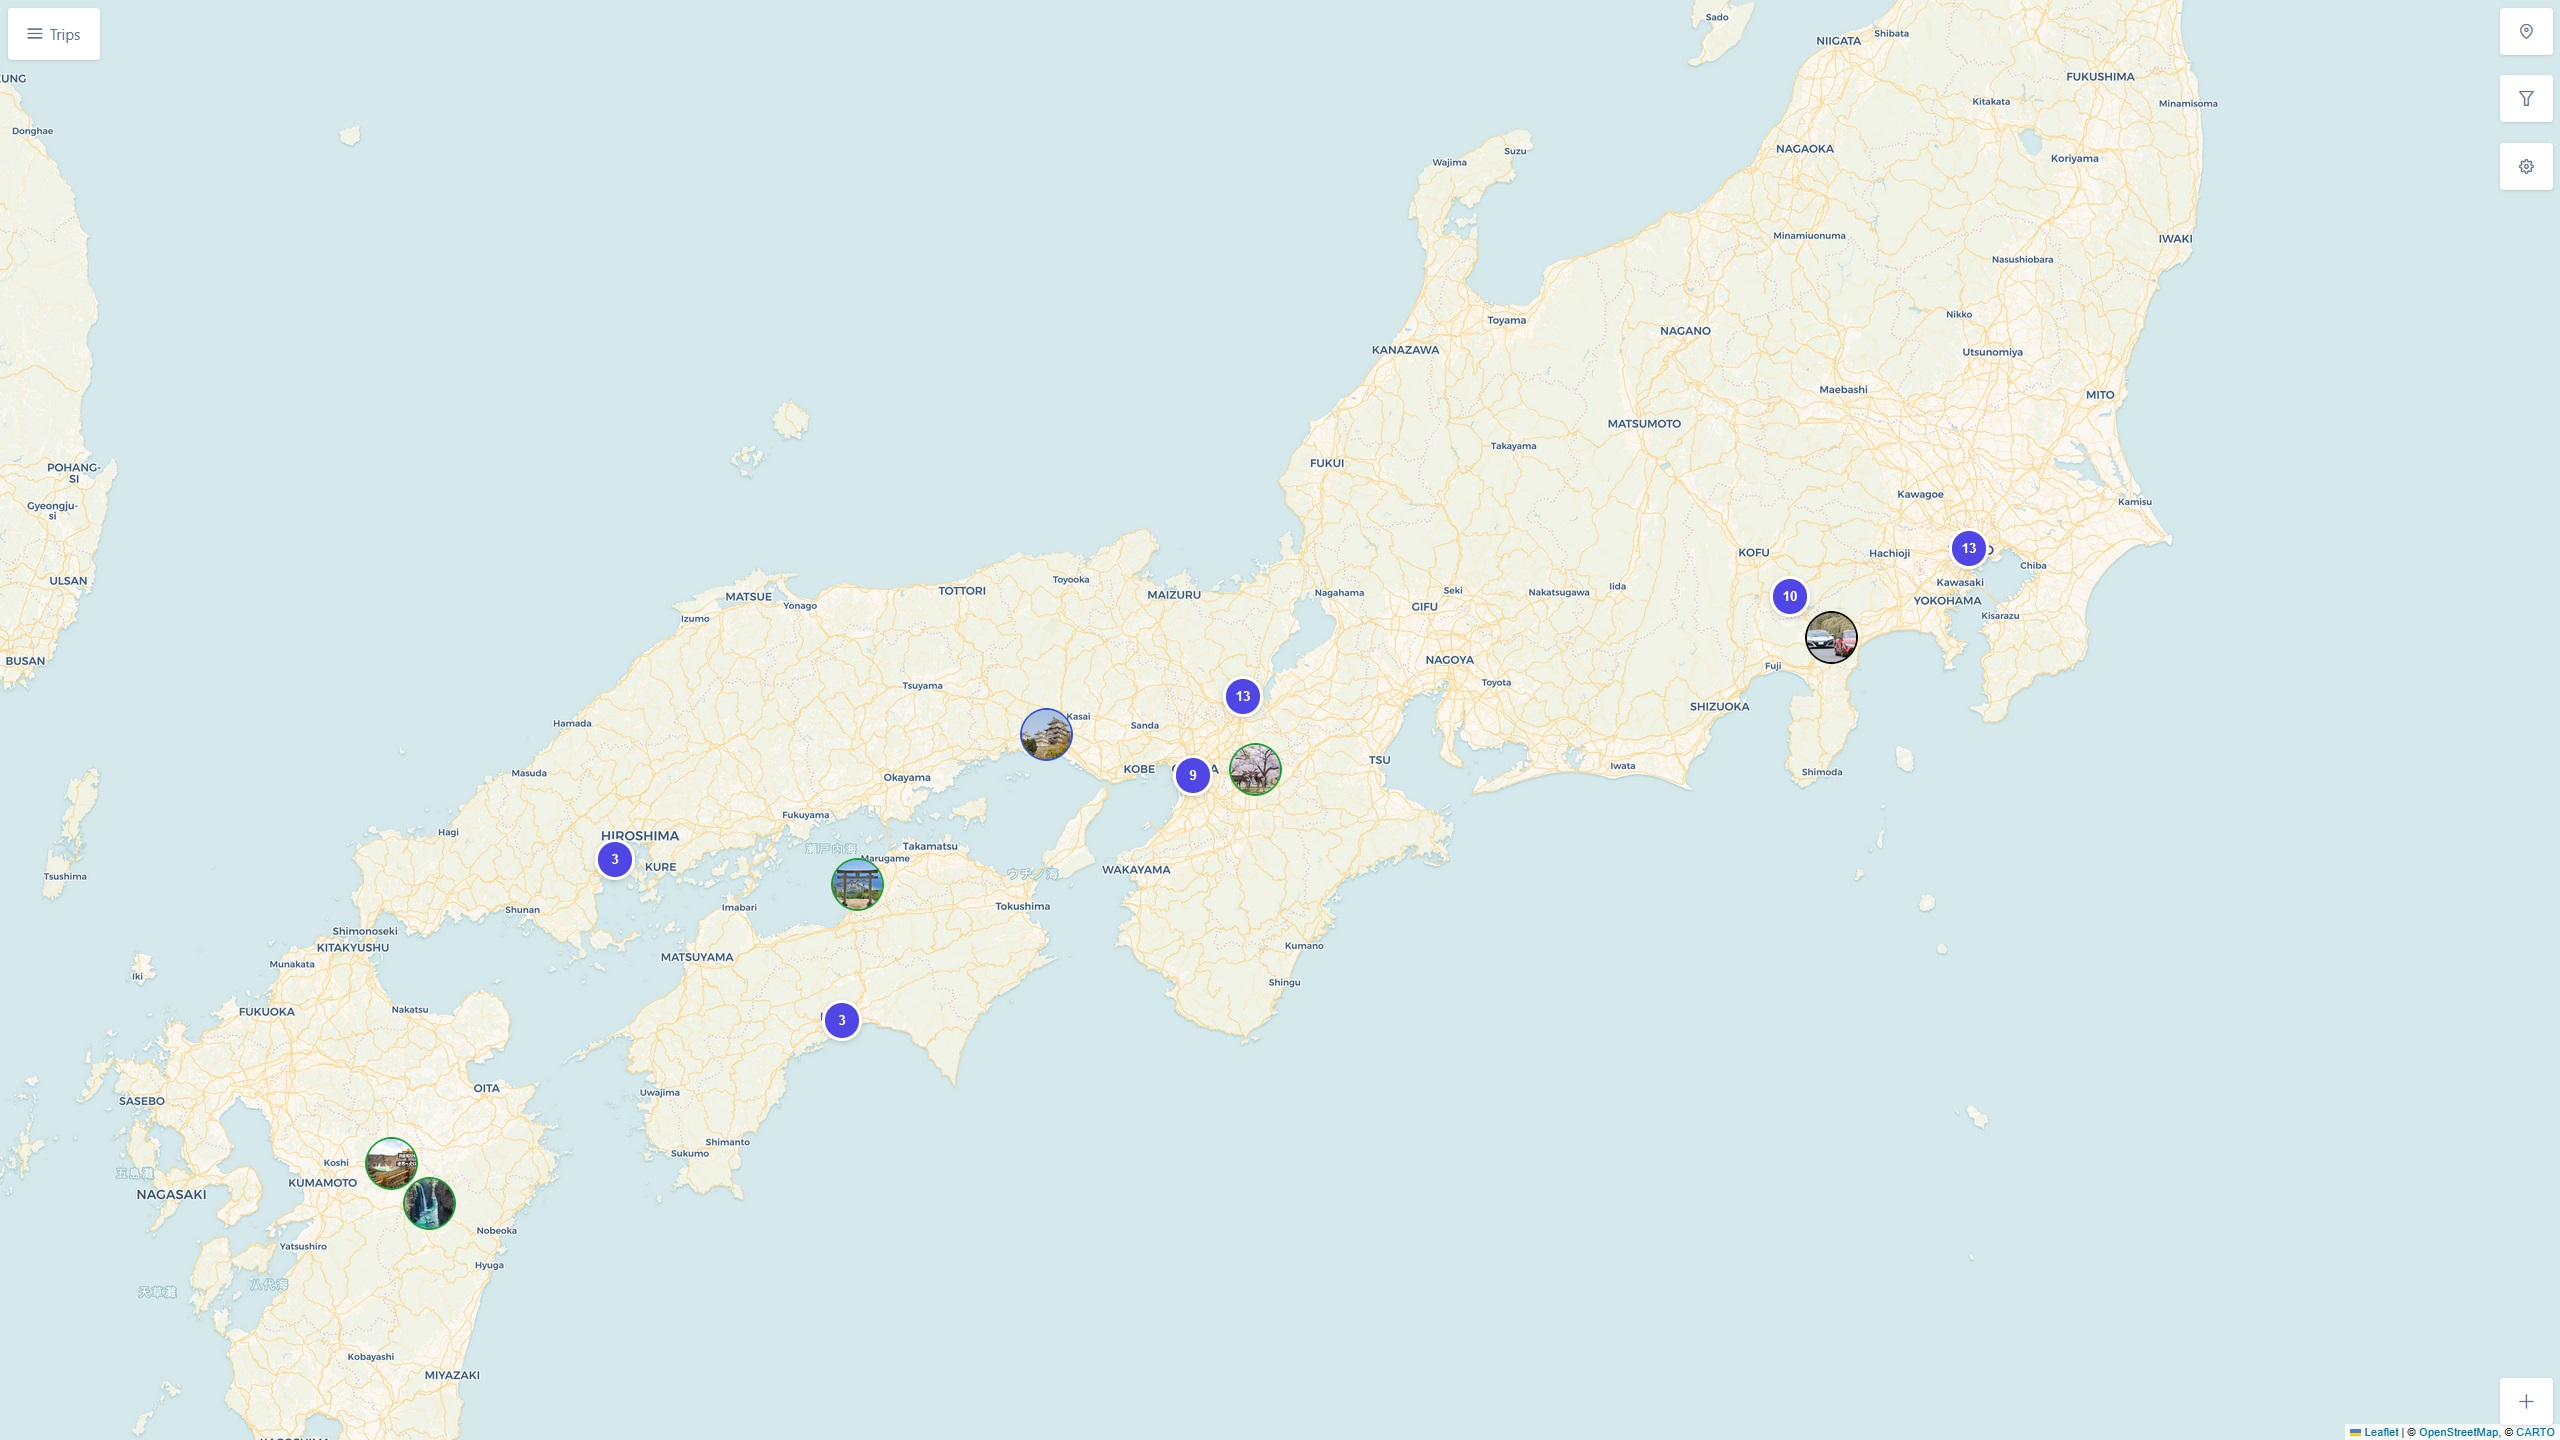
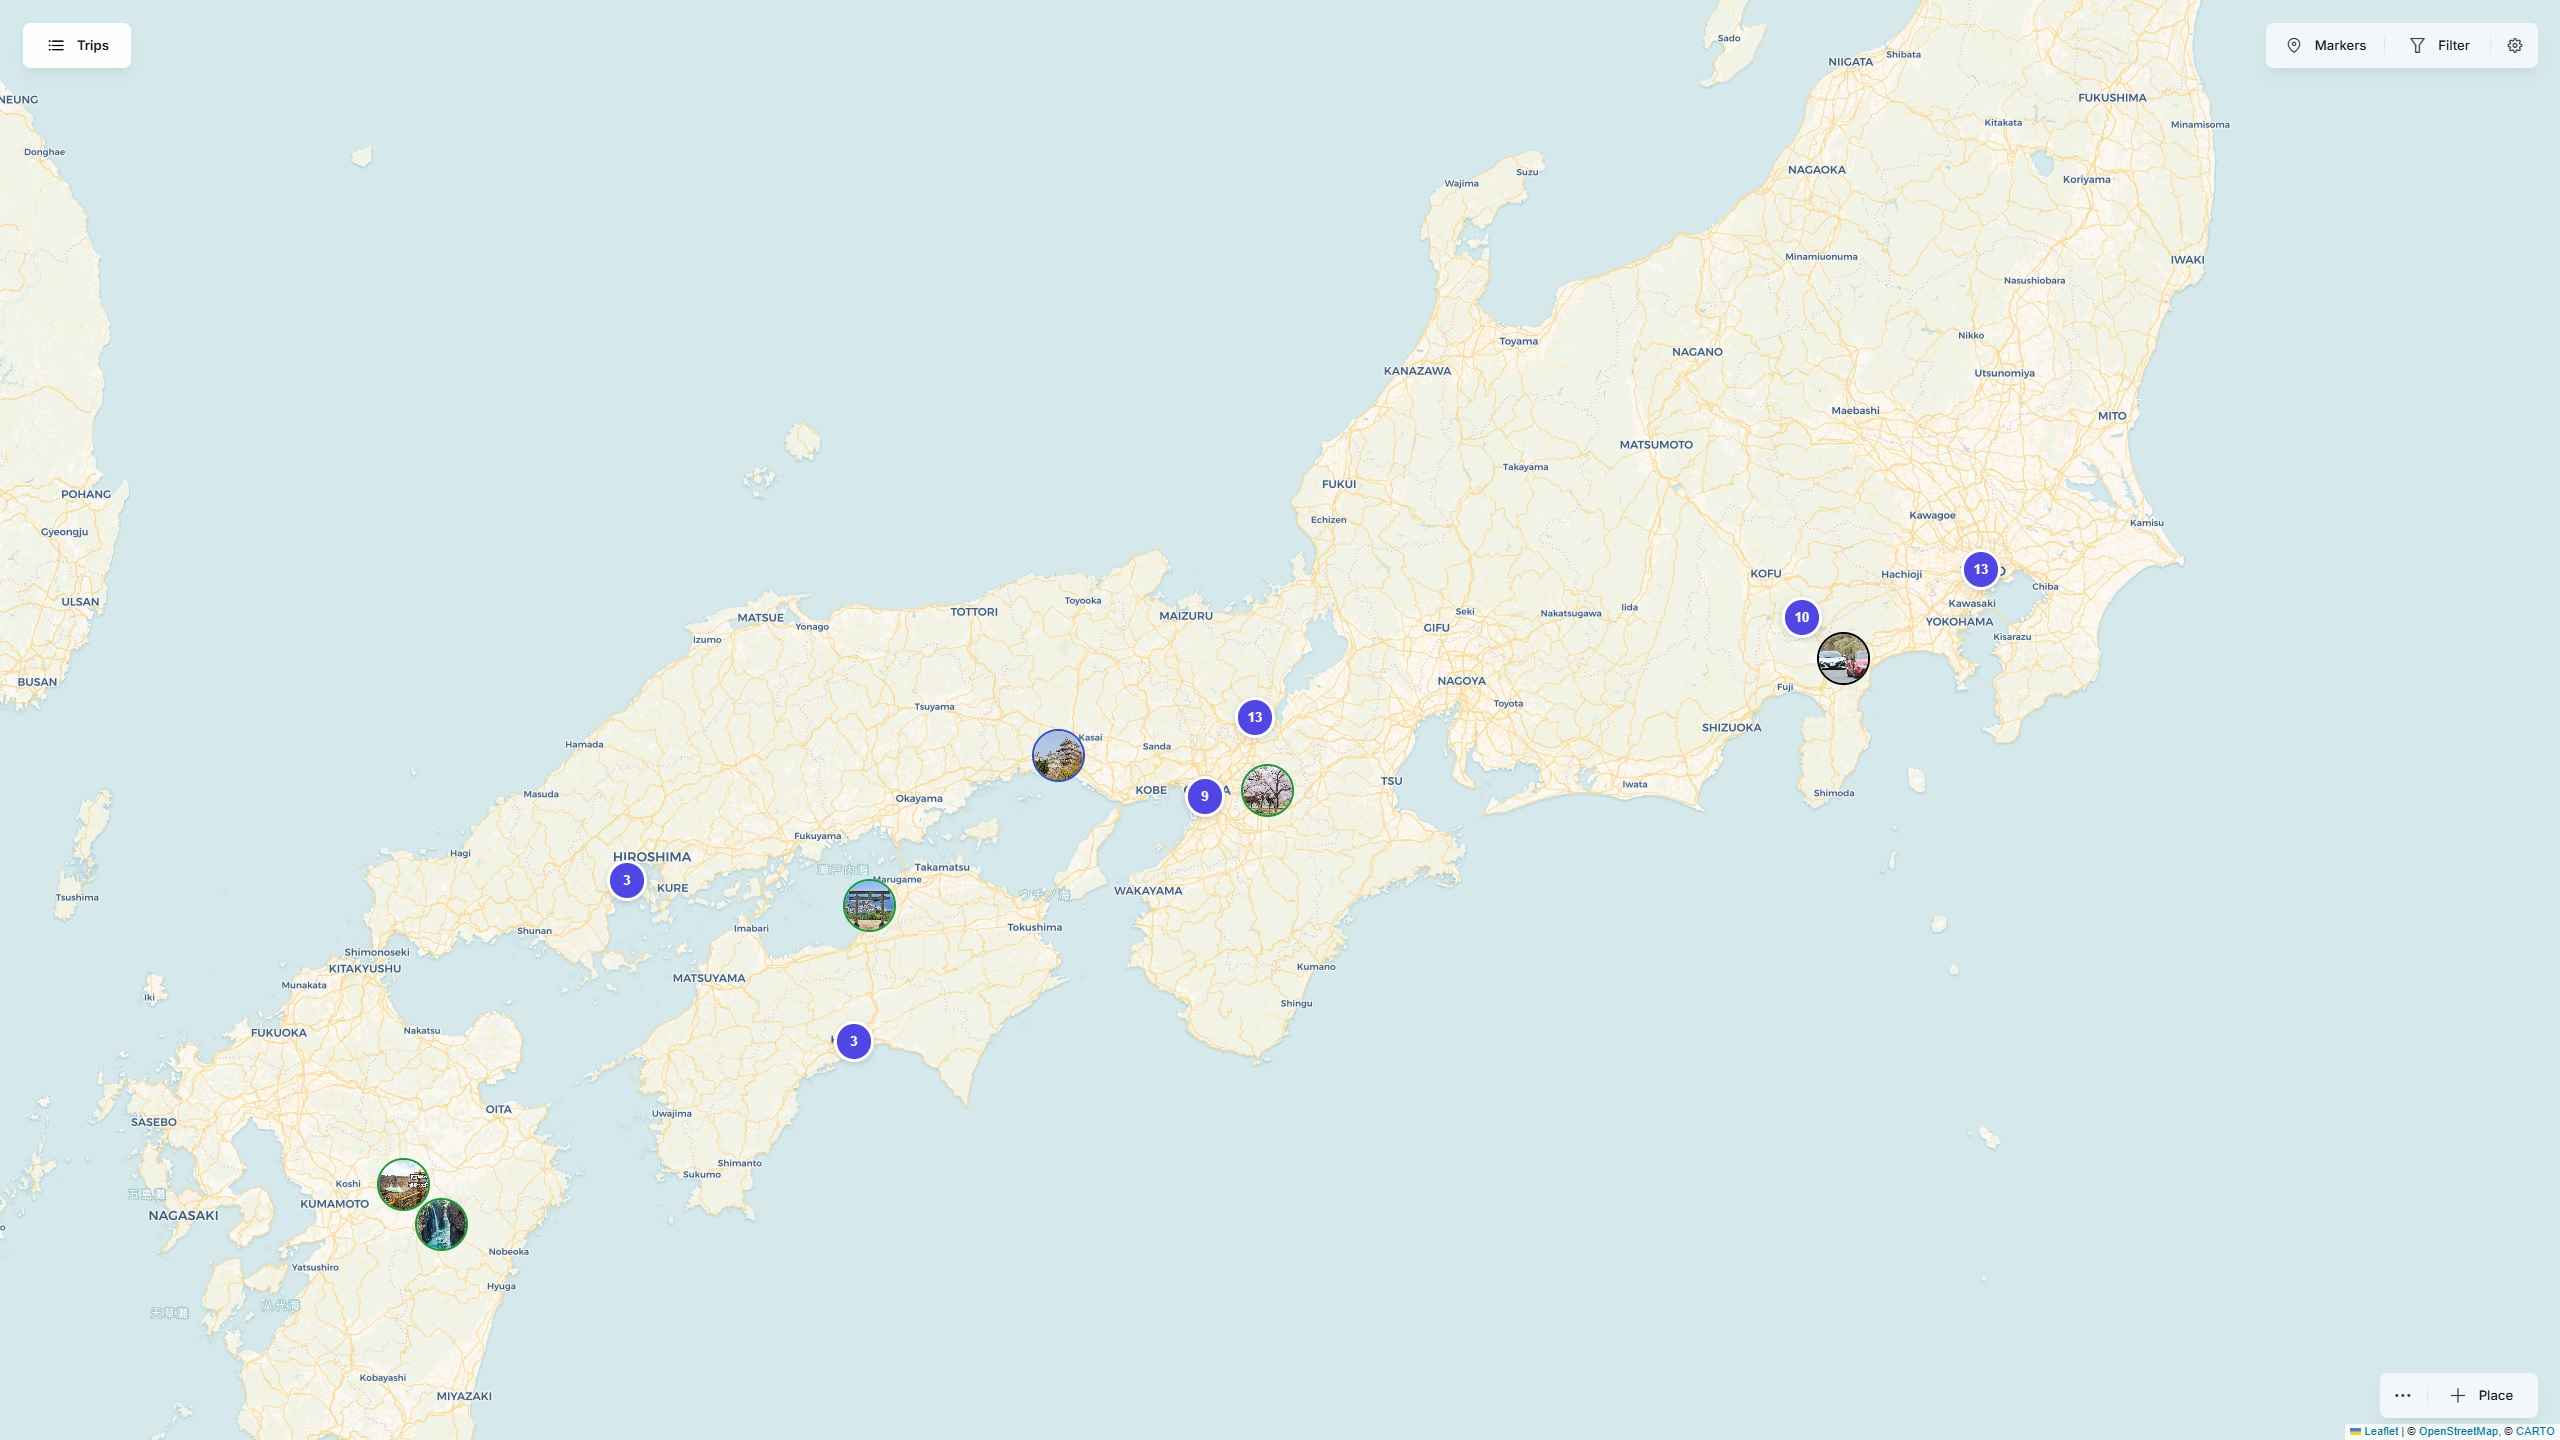
:memo: Update README, update screenshots with updated UI

diff --git a/README.md b/README.md
@@ -3,9 +3,10 @@
 
 <div align="center">
 
+[![Sponsor](https://img.shields.io/badge/sponsor-30363D?style=for-the-badge&logo=GitHub-Sponsors&logoColor=#white)](https://ko-fi.com/itskovacs)
 ![Status](https://img.shields.io/badge/status-active-success?style=for-the-badge)
 [![GitHub Issues](https://img.shields.io/github/issues/itskovacs/trip?style=for-the-badge&color=ededed)](https://github.com/itskovacs/trip/issues)
-[![License](https://img.shields.io/badge/license-_CC_BY_NC_SA_4.0-2596be?style=for-the-badge)](/LICENSE)
+![Pulls](https://img.shields.io/badge/pulls-35k+-2596be?style=for-the-badge)
 
 </div>
 
@@ -101,7 +102,7 @@ Contributions are welcome! Open an issue to report bugs, start a discussion to s
 3. Commit and push your changes
 4. Open a pull request
 
-TRIP is and will always remain completely free, no paywalled features, no telemetry, no tracking, no ads. Development is supported through optional donations. If TRIP helps plan your adventures, consider [leaving a small tip](https://ko-fi.com/itskovacs) ☕.
+TRIP is and will always remain completely free, no paywalled features, no telemetry, no tracking, no ads. Development is supported through optional donations. If TRIP helps plan your adventures, consider [leaving me a small tip](https://ko-fi.com/itskovacs) ☕.
 
 <br>
 
@@ -130,7 +131,7 @@ TRIP is licensed under the **CC BY-NC-SA 4.0**. You may use, modify, and share f
 
 <div align="center">
 
-If you like TRIP, consider giving it a **star** ⭐!  
+If you like TRIP, consider giving it a ⭐ for visibility!  
 Made with ❤ in BZH  
 
 <a href='https://ko-fi.com/itskovacs' target='_blank'><img height='36' style='border:0px;height:36px;' src='https://storage.ko-fi.com/cdn/kofi1.png' border='0' alt='Buy Me a Coffee at ko-fi.com' /></a>  
